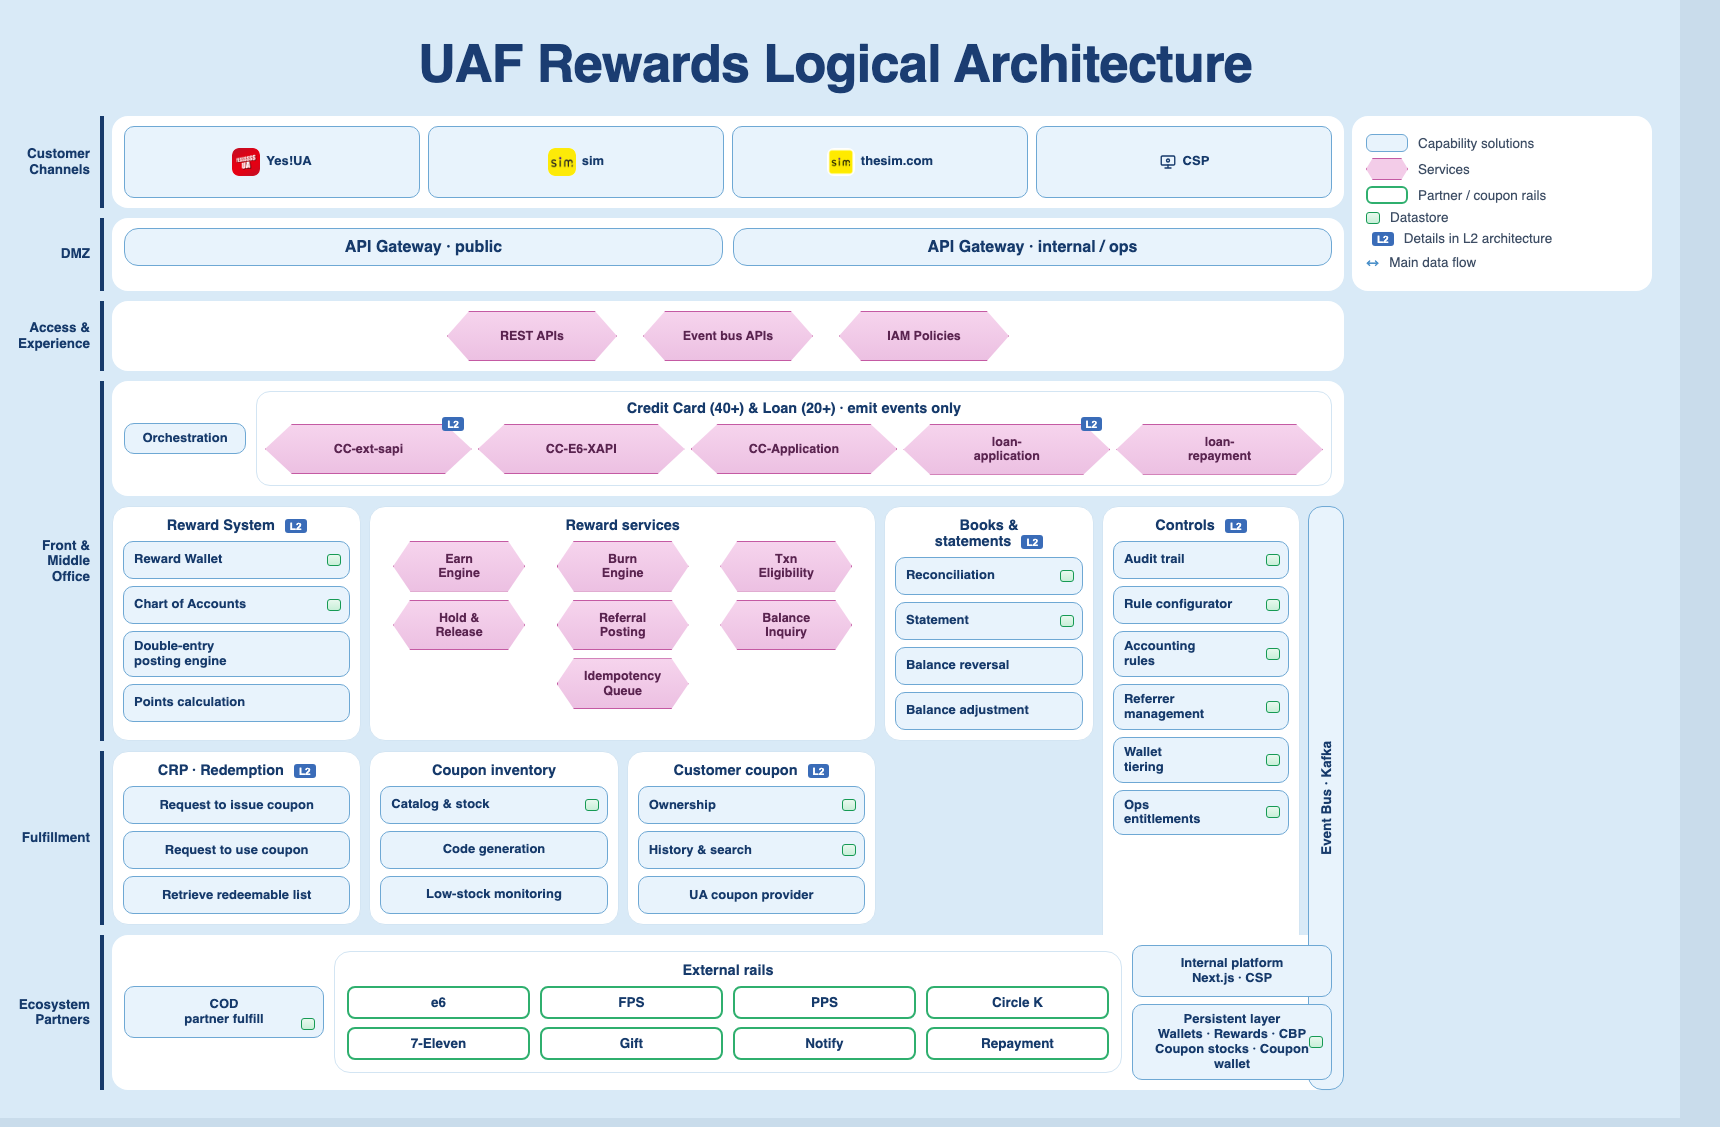
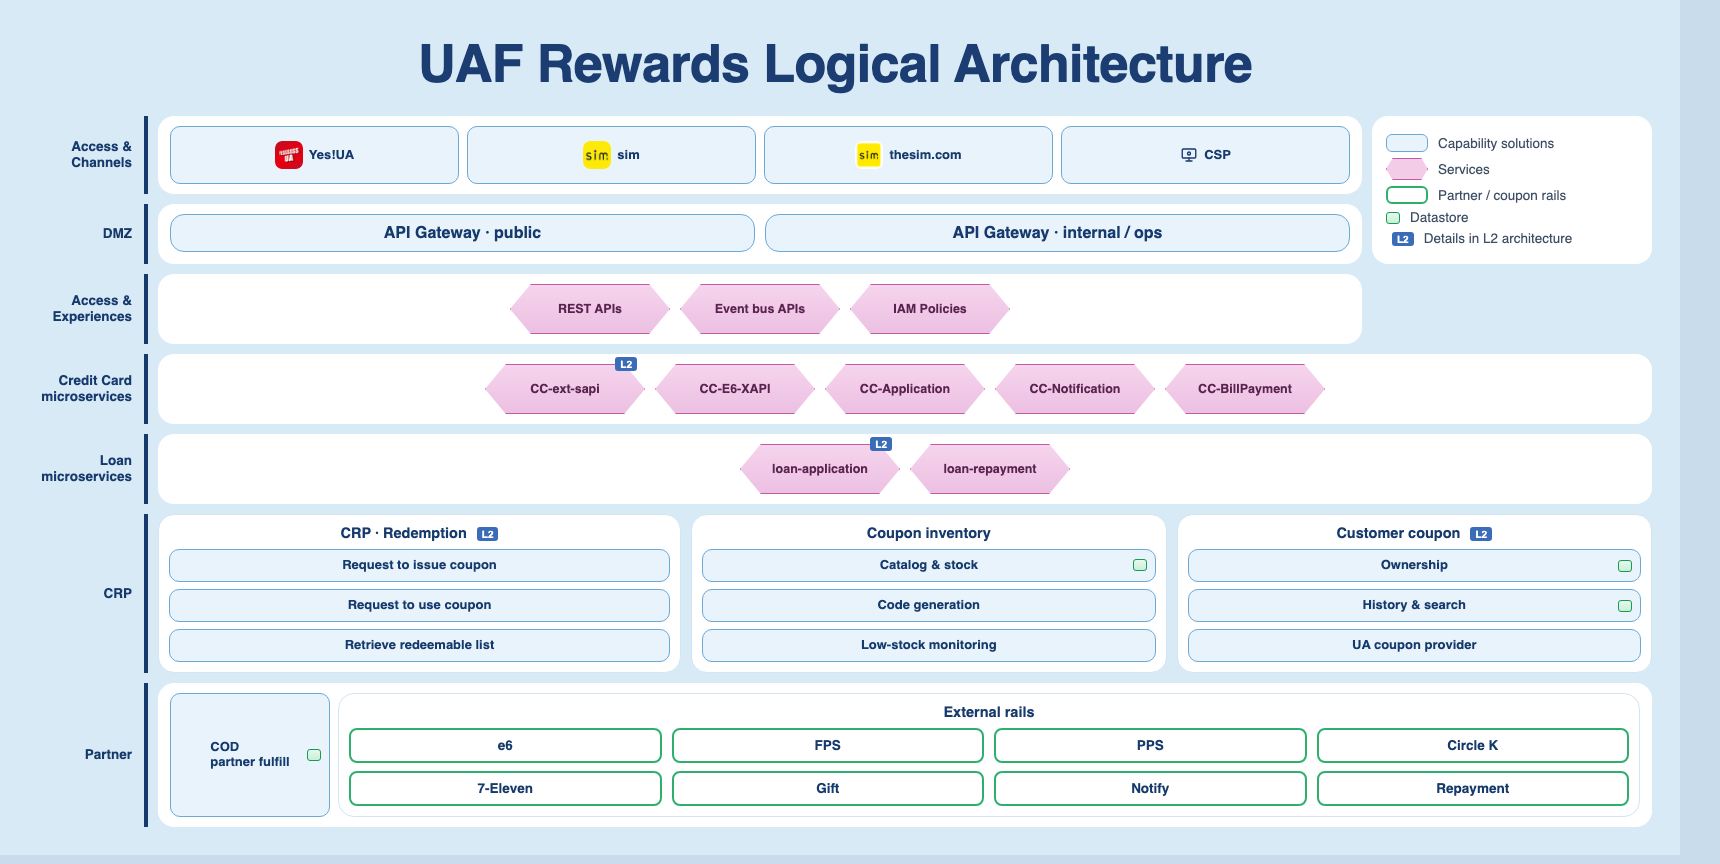
docs(decks): simplify L1 to 7 lanes — channels, DMZ, experiences, CC, loan, CRP, partner

diff --git a/docs/decks/uaf-rewards-logical-architecture.html b/docs/decks/uaf-rewards-logical-architecture.html
@@ -11,17 +11,17 @@
   h1{text-align:center;font-size:52px;font-weight:800;color:#1b3d72;letter-spacing:-.6px;margin:2px 0 22px}
   .g{
     display:grid;
-    grid-template-columns: 86px 1fr 1fr 1fr 210px 198px 36px 300px;
+    grid-template-columns: 130px 1fr 280px;
     grid-template-rows: auto auto auto auto auto auto auto;
-    gap: 10px 8px;
+    gap: 10px 10px;
     align-items: stretch;
   }
-  .lab{display:flex;align-items:center;justify-content:flex-end;text-align:right;padding-right:10px;border-right:4px solid #163a6b;font-weight:700;font-size:13.5px;color:#163a6b;line-height:1.15}
+  .lab{display:flex;align-items:center;justify-content:flex-end;text-align:right;padding-right:12px;border-right:4px solid #163a6b;font-weight:700;font-size:13.5px;color:#163a6b;line-height:1.15}
   .card{background:#fff;border-radius:16px;padding:10px 12px}
   .panel{background:#fff;border-radius:16px;border:1px solid #d3e5f3;padding:10px}
-  .cap{background:#e8f3fc;border:1.7px solid #6ea8d4;border-radius:10px;padding:7px 10px;font-size:13px;font-weight:700;color:#163a6b;display:flex;align-items:center;gap:6px;line-height:1.15;position:relative}
+  .cap{background:#e8f3fc;border:1.7px solid #6ea8d4;border-radius:10px;padding:8px 12px;font-size:13px;font-weight:700;color:#163a6b;display:flex;align-items:center;gap:6px;line-height:1.15;position:relative;justify-content:center}
   .svc{background:linear-gradient(#f6d4ed,#ecc0e2);border:1.8px solid #c45aa3;color:#5a2450;font-size:12.5px;font-weight:700;text-align:center;line-height:1.15;padding:10px 14px;position:relative;display:flex;align-items:center;justify-content:center;clip-path:polygon(13% 0,87% 0,100% 50%,87% 100%,13% 100%,0 50%);min-height:50px}
-  .pay{background:#fff;border:2.2px solid #2faf6e;border-radius:8px;padding:7px 6px;font-size:13.5px;font-weight:700;color:#163a6b;text-align:center}
+  .pay{background:#fff;border:2.2px solid #2faf6e;border-radius:8px;padding:8px 6px;font-size:13.5px;font-weight:700;color:#163a6b;text-align:center}
   .svcw{position:relative}
   .l2{position:absolute;top:-7px;right:8px;background:#3a6cb8;color:#fff;font-size:10px;font-weight:800;padding:1px 5px;border-radius:3px;z-index:2}
   .l2i{display:inline-block;background:#3a6cb8;color:#fff;font-size:10px;font-weight:800;padding:1px 5px;border-radius:3px;margin-left:6px;vertical-align:middle}
@@ -30,200 +30,138 @@
   h3{text-align:center;font-size:14.5px;color:#163a6b;font-weight:700;margin-bottom:8px}
   .gw{background:#e8f3fc;border:1.7px solid #6ea8d4;border-radius:14px;text-align:center;padding:9px;font-weight:700;font-size:16px;color:#163a6b}
   .stack{display:flex;flex-direction:column;gap:7px}
-  .stack .cap{width:100%;min-height:38px}
-  .ebus{writing-mode:vertical-rl;transform:rotate(180deg);background:#e8f3fc;border:1.7px solid #6ea8d4;border-radius:14px;display:flex;align-items:center;justify-content:center;font-weight:700;font-size:13.5px;color:#163a6b}
   .legend{background:#fff;border-radius:16px;padding:12px 14px;font-size:13.5px;color:#3d4d64}
   .li{display:flex;align-items:center;gap:10px;margin:6px 0}
   .lg-cap{width:42px;height:18px;border:1.7px solid #6ea8d4;background:#e8f3fc;border-radius:6px}
   .lg-svc{width:42px;height:22px;background:#f3cce8;border:1.6px solid #c45aa3;clip-path:polygon(16% 0,84% 0,100% 50%,84% 100%,16% 100%,0 50%)}
   .lg-pay{width:42px;height:18px;border:2.2px solid #2faf6e;border-radius:6px;background:#fff}
   svg.ico{width:18px;height:18px;stroke:#163a6b;fill:none;stroke-width:1.8;stroke-linecap:round;stroke-linejoin:round}
-  .footer{margin:16px -28px 0 -18px;background:#1e4d86;color:#fff;display:flex;justify-content:space-between;align-items:center;padding:9px 20px;font-size:13.5px}
-
-  .l-ch{grid-column:1;grid-row:1}
-  .ch{grid-column:2/8;grid-row:1;display:flex;gap:8px;align-items:stretch}
-  .ch .cap{flex:1;justify-content:center;min-height:56px}
-  .ch .cap img.logo{width:28px;height:28px;border-radius:7px;object-fit:cover;flex-shrink:0;background:#fff}
-  .leg{grid-column:8;grid-row:1/3}
-  .l-dmz{grid-column:1;grid-row:2}
-  .dmz{grid-column:2/8;grid-row:2}
-  .l-exp{grid-column:1;grid-row:3}
-  .exp{grid-column:2/8;grid-row:3;display:flex;justify-content:center;gap:26px;align-items:center}
-  .exp .svc{width:170px}
-  .l-fmo{grid-column:1;grid-row:4/6}
-  .orchrow{grid-column:2/8;grid-row:4;display:flex;gap:10px;align-items:center}
-  .core{grid-column:2;grid-row:5}
-  .data{grid-column:3/5;grid-row:5}
-  .eda{grid-column:5;grid-row:5}
-  .ctrl{grid-column:6;grid-row:5/8}
-  .eb{grid-column:7;grid-row:5/8}
-  .l-bo{grid-column:1;grid-row:6}
-  .pmm{grid-column:2;grid-row:6}
-  .fin{grid-column:3;grid-row:6}
-  .doc{grid-column:4;grid-row:6}
-  .l-eco{grid-column:1;grid-row:7}
-  .eco{grid-column:2/8;grid-row:7;display:flex;gap:10px;align-items:center}
-
-  .other{flex:1;background:#e8f3fc;border:1.7px solid #6ea8d4;border-radius:12px;padding:6px 8px 8px}
-  .other h3{margin-bottom:4px;font-size:15px}
-  .its{display:grid;grid-template-columns:repeat(6,1fr);text-align:center;font-size:12.5px;font-weight:700;color:#163a6b}
-  .its span{border-right:1px solid #8fb8d6;padding:0 4px;line-height:1.2}
-  .its span:last-child{border:0}
-  .orch{min-width:122px;justify-content:center}
-  .bps{flex:1;border:1px solid #d3e5f3;border-radius:14px;padding:8px 8px 10px;background:#fff}
-  .bpsg{display:grid;grid-template-columns:repeat(5,1fr);gap:6px}
-  .ds{display:grid;grid-template-columns:repeat(3,1fr);gap:8px 6px;justify-items:center}
-  .ds .svc{width:132px;min-height:48px;font-size:12.5px}
-  .ds .c{grid-column:2}
+  .row{display:flex;gap:8px;align-items:stretch}
+  .grow{flex:1;min-width:0}
+  .hexrow{display:flex;justify-content:center;gap:10px;align-items:center;flex-wrap:wrap}
+  .hexrow .svc{width:160px}
   .rails{display:grid;grid-template-columns:repeat(4,1fr);gap:8px 10px}
-  .jbox{min-height:52px;justify-content:center;text-align:center;width:100%}
   .gwrow{display:grid;grid-template-columns:1fr 1fr;gap:10px}
+  .crp{display:grid;grid-template-columns:1.1fr 1fr 1fr;gap:10px}
+  .ch .cap{flex:1;min-height:56px}
+  .ch .cap img.logo{width:28px;height:28px;border-radius:7px;object-fit:cover;flex-shrink:0;background:#fff}
+
+  .l1{grid-column:1;grid-row:1}
+  .c1{grid-column:2;grid-row:1}
+  .lg{grid-column:3;grid-row:1 / span 2}
+  .l2r{grid-column:1;grid-row:2}
+  .c2{grid-column:2;grid-row:2}
+  .l3{grid-column:1;grid-row:3}
+  .c3{grid-column:2;grid-row:3}
+  .l4{grid-column:1;grid-row:4}
+  .c4{grid-column:2 / span 2;grid-row:4}
+  .l5{grid-column:1;grid-row:5}
+  .c5{grid-column:2 / span 2;grid-row:5}
+  .l6{grid-column:1;grid-row:6}
+  .c6{grid-column:2 / span 2;grid-row:6}
+  .l7{grid-column:1;grid-row:7}
+  .c7{grid-column:2 / span 2;grid-row:7}
 </style>
 </head>
 <body>
 <div class="poster">
   <h1>UAF Rewards Logical Architecture</h1>
   <div class="g">
-    <div class="lab l-ch">Customer<br>Channels</div>
-    <div class="card ch">
-      <div class="cap">
-        <img class="logo" src="logos/yesua.png" alt="Yes!UA"/>
-        <span>Yes!UA</span>
-      </div>
-      <div class="cap">
-        <img class="logo" src="logos/sim.png" alt="sim"/>
-        <span>sim</span>
-      </div>
-      <div class="cap">
-        <img class="logo" src="logos/thesim.png" alt="thesim.com"/>
-        <span>thesim.com</span>
-      </div>
+    <div class="lab l1">Access &amp;<br>Channels</div>
+    <div class="card c1 ch row">
+      <div class="cap"><img class="logo" src="logos/yesua.png" alt="Yes!UA"/><span>Yes!UA</span></div>
+      <div class="cap"><img class="logo" src="logos/sim.png" alt="sim"/><span>sim</span></div>
+      <div class="cap"><img class="logo" src="logos/thesim.png" alt="thesim.com"/><span>thesim.com</span></div>
       <div class="cap">
         <svg class="ico" viewBox="0 0 24 24"><rect x="3" y="4" width="18" height="12" rx="1.5"/><path d="M8 20h8M12 16v4"/><circle cx="12" cy="10" r="2"/></svg>
         <span>CSP</span>
       </div>
     </div>
-    <div class="legend leg">
+    <div class="legend lg">
       <div class="li"><div class="lg-cap"></div> Capability solutions</div>
       <div class="li"><div class="lg-svc"></div> Services</div>
       <div class="li"><div class="lg-pay"></div> Partner / coupon rails</div>
       <div class="li"><span class="db"></span> Datastore</div>
       <div class="li"><span class="l2i">L2</span> Details in L2 architecture</div>
-      <div class="li"><span style="color:#4b90c9;font-weight:800">↔</span> Main data flow</div>
     </div>
 
-    <div class="lab l-dmz">DMZ</div>
-    <div class="card dmz">
+    <div class="lab l2r">DMZ</div>
+    <div class="card c2">
       <div class="gwrow">
         <div class="gw">API Gateway · public</div>
         <div class="gw">API Gateway · internal / ops</div>
       </div>
     </div>
 
-    <div class="lab l-exp">Access &amp;<br>Experience</div>
-    <div class="card exp">
+    <div class="lab l3">Access &amp;<br>Experiences</div>
+    <div class="card c3 hexrow">
       <div class="svc">REST APIs</div>
       <div class="svc">Event bus APIs</div>
       <div class="svc">IAM Policies</div>
     </div>
 
-    <div class="lab l-fmo">Front &amp;<br>Middle Office</div>
-    <div class="card orchrow">
-      <div class="cap orch">Orchestration</div>
-      <div class="bps">
-        <h3>Credit Card (40+) &amp; Loan (20+) · emit events only</h3>
-        <div class="bpsg">
-          <div class="svcw"><div class="svc">CC-ext-sapi</div><span class="l2">L2</span></div>
-          <div class="svcw"><div class="svc">CC-E6-XAPI</div></div>
-          <div class="svcw"><div class="svc">CC-Application</div></div>
-          <div class="svcw"><div class="svc">loan-<br>application</div><span class="l2">L2</span></div>
-          <div class="svcw"><div class="svc">loan-<br>repayment</div></div>
+    <div class="lab l4">Credit Card<br>microservices</div>
+    <div class="card c4">
+      <div class="hexrow">
+        <div class="svcw"><div class="svc">CC-ext-sapi</div><span class="l2">L2</span></div>
+        <div class="svc">CC-E6-XAPI</div>
+        <div class="svc">CC-Application</div>
+        <div class="svc">CC-Notification</div>
+        <div class="svc">CC-BillPayment</div>
+      </div>
+    </div>
+
+    <div class="lab l5">Loan<br>microservices</div>
+    <div class="card c5">
+      <div class="hexrow">
+        <div class="svcw"><div class="svc">loan-application</div><span class="l2">L2</span></div>
+        <div class="svc">loan-repayment</div>
+      </div>
+    </div>
+
+    <div class="lab l6">CRP</div>
+    <div class="c6 crp">
+      <div class="panel">
+        <h3>CRP · Redemption <span class="l2i">L2</span></h3>
+        <div class="stack">
+          <div class="cap">Request to issue coupon</div>
+          <div class="cap">Request to use coupon</div>
+          <div class="cap">Retrieve redeemable list</div>
+        </div>
+      </div>
+      <div class="panel">
+        <h3>Coupon inventory</h3>
+        <div class="stack">
+          <div class="cap">Catalog &amp; stock<span class="db dbr"></span></div>
+          <div class="cap">Code generation</div>
+          <div class="cap">Low-stock monitoring</div>
+        </div>
+      </div>
+      <div class="panel">
+        <h3>Customer coupon <span class="l2i">L2</span></h3>
+        <div class="stack">
+          <div class="cap">Ownership<span class="db dbr"></span></div>
+          <div class="cap">History &amp; search<span class="db dbr"></span></div>
+          <div class="cap">UA coupon provider</div>
         </div>
       </div>
     </div>
 
-    <div class="panel core">
-      <h3>Reward System <span class="l2i">L2</span></h3>
-      <div class="stack">
-        <div class="cap">Reward Wallet<span class="db dbr"></span></div>
-        <div class="cap">Chart of Accounts<span class="db dbr"></span></div>
-        <div class="cap">Double-entry<br>posting engine</div>
-        <div class="cap">Points calculation</div>
-      </div>
-    </div>
-    <div class="panel data">
-      <h3>Reward services</h3>
-      <div class="ds">
-        <div class="svc">Earn<br>Engine</div>
-        <div class="svc">Burn<br>Engine</div>
-        <div class="svc">Txn<br>Eligibility</div>
-        <div class="svc">Hold &amp;<br>Release</div>
-        <div class="svc">Referral<br>Posting</div>
-        <div class="svc">Balance<br>Inquiry</div>
-        <div class="svc c">Idempotency<br>Queue</div>
-      </div>
-    </div>
-    <div class="panel eda">
-      <h3>Books &amp;<br>statements <span class="l2i">L2</span></h3>
-      <div class="stack">
-        <div class="cap">Reconciliation<span class="db dbr"></span></div>
-        <div class="cap">Statement<span class="db dbr"></span></div>
-        <div class="cap">Balance reversal</div>
-        <div class="cap">Balance adjustment</div>
-      </div>
-    </div>
-    <div class="panel ctrl">
-      <h3>Controls <span class="l2i">L2</span></h3>
-      <div class="stack">
-        <div class="cap">Audit trail<span class="db dbr"></span></div>
-        <div class="cap">Rule configurator<span class="db dbr"></span></div>
-        <div class="cap">Accounting<br>rules<span class="db dbr"></span></div>
-        <div class="cap">Referrer<br>management<span class="db dbr"></span></div>
-        <div class="cap">Wallet<br>tiering<span class="db dbr"></span></div>
-        <div class="cap">Ops<br>entitlements<span class="db dbr"></span></div>
-      </div>
-    </div>
-    <div class="ebus eb">Event Bus · Kafka</div>
-
-    <div class="lab l-bo">Fulfillment</div>
-    <div class="panel pmm">
-      <h3>CRP · Redemption <span class="l2i">L2</span></h3>
-      <div class="stack">
-        <div class="cap" style="justify-content:center">Request to issue coupon</div>
-        <div class="cap" style="justify-content:center">Request to use coupon</div>
-        <div class="cap" style="justify-content:center">Retrieve redeemable list</div>
-      </div>
-    </div>
-    <div class="panel fin">
-      <h3>Coupon inventory</h3>
-      <div class="stack">
-        <div class="cap">Catalog &amp; stock<span class="db dbr"></span></div>
-        <div class="cap" style="justify-content:center">Code generation</div>
-        <div class="cap" style="justify-content:center">Low-stock monitoring</div>
-      </div>
-    </div>
-    <div class="panel doc">
-      <h3>Customer coupon <span class="l2i">L2</span></h3>
-      <div class="stack">
-        <div class="cap">Ownership<span class="db dbr"></span></div>
-        <div class="cap">History &amp; search<span class="db dbr"></span></div>
-        <div class="cap" style="justify-content:center">UA coupon provider</div>
-      </div>
-    </div>
-
-    <div class="lab l-eco">Ecosystem<br>Partners</div>
-    <div class="card eco">
-      <div class="cap jbox" style="max-width:200px;position:relative">COD<br>partner fulfill<span class="db dbr" style="top:auto;bottom:7px;transform:none"></span></div>
-      <div class="panel" style="flex:1;padding:10px 12px 12px">
+    <div class="lab l7">Partner</div>
+    <div class="card c7 row">
+      <div class="cap" style="min-width:160px">COD<br>partner fulfill<span class="db dbr"></span></div>
+      <div class="panel grow">
         <h3>External rails</h3>
         <div class="rails">
-          <div class="pay">e6</div><div class="pay">FPS</div><div class="pay">PPS</div><div class="pay">Circle K</div>
-          <div class="pay">7-Eleven</div><div class="pay">Gift</div><div class="pay">Notify</div><div class="pay">Repayment</div>
+          <div class="pay">e6</div>
+          <div class="pay">FPS</div>
+          <div class="pay">PPS</div>
+          <div class="pay">Circle K</div>
+          <div class="pay">7-Eleven</div>
+          <div class="pay">Gift</div>
+          <div class="pay">Notify</div>
+          <div class="pay">Repayment</div>
         </div>
-      </div>
-      <div style="display:flex;flex-direction:column;gap:7px;width:200px">
-        <div class="cap jbox">Internal platform<br>Next.js · CSP</div>
-        <div class="cap jbox">Persistent layer<br>Wallets · Rewards · CBP<br>Coupon stocks · Coupon wallet<span class="db dbr"></span></div>
       </div>
     </div>
   </div>
